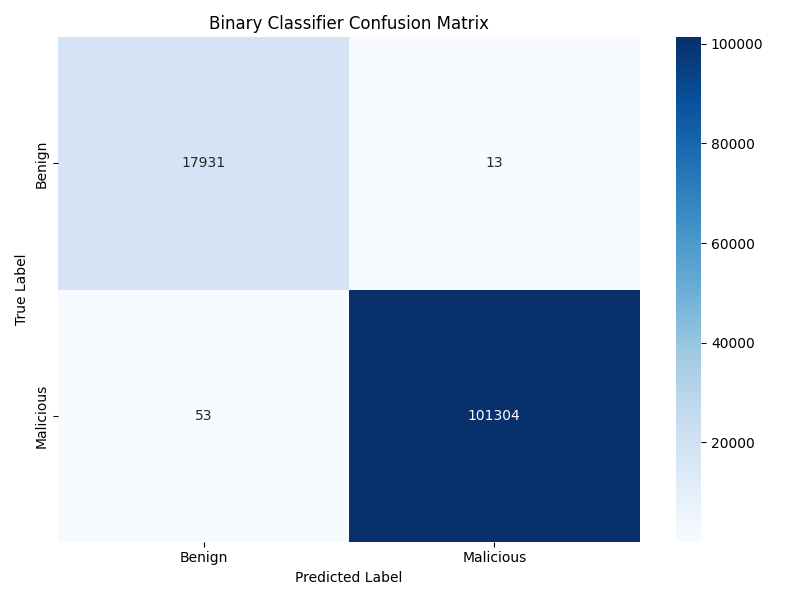
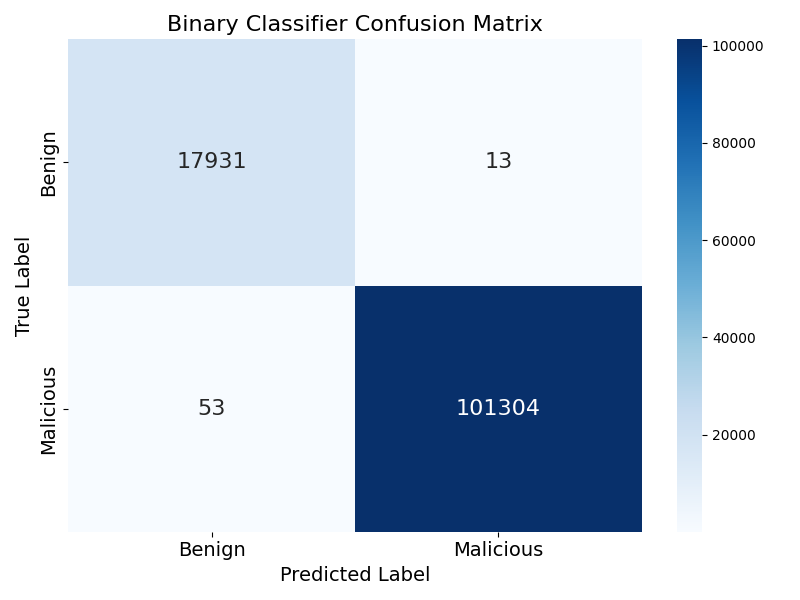
Merge pull request #5 from arjunsudheer/agents2
binary classifier

Pull request: binary classifier

diff --git a/experiments/evaluate_binary_classifier.py b/experiments/evaluate_binary_classifier.py
@@ -61,10 +61,13 @@ def evaluate_binary_classifier():
         cmap="Blues",
         xticklabels=["Benign", "Malicious"],
         yticklabels=["Benign", "Malicious"],
+        annot_kws={"size": 16},  # Larger numbers in boxes
     )
-    plt.title("Binary Classifier Confusion Matrix")
-    plt.ylabel("True Label")
-    plt.xlabel("Predicted Label")
+    plt.title("Binary Classifier Confusion Matrix", fontsize=16)
+    plt.ylabel("True Label", fontsize=14)
+    plt.xlabel("Predicted Label", fontsize=14)
+    plt.xticks(fontsize=14)  # Larger tick labels
+    plt.yticks(fontsize=14)  # Larger tick labels
     plt.tight_layout()
     plt.savefig("visualizations/binary_random_forest_classifier_confusion_matrix.png")
     plt.close()